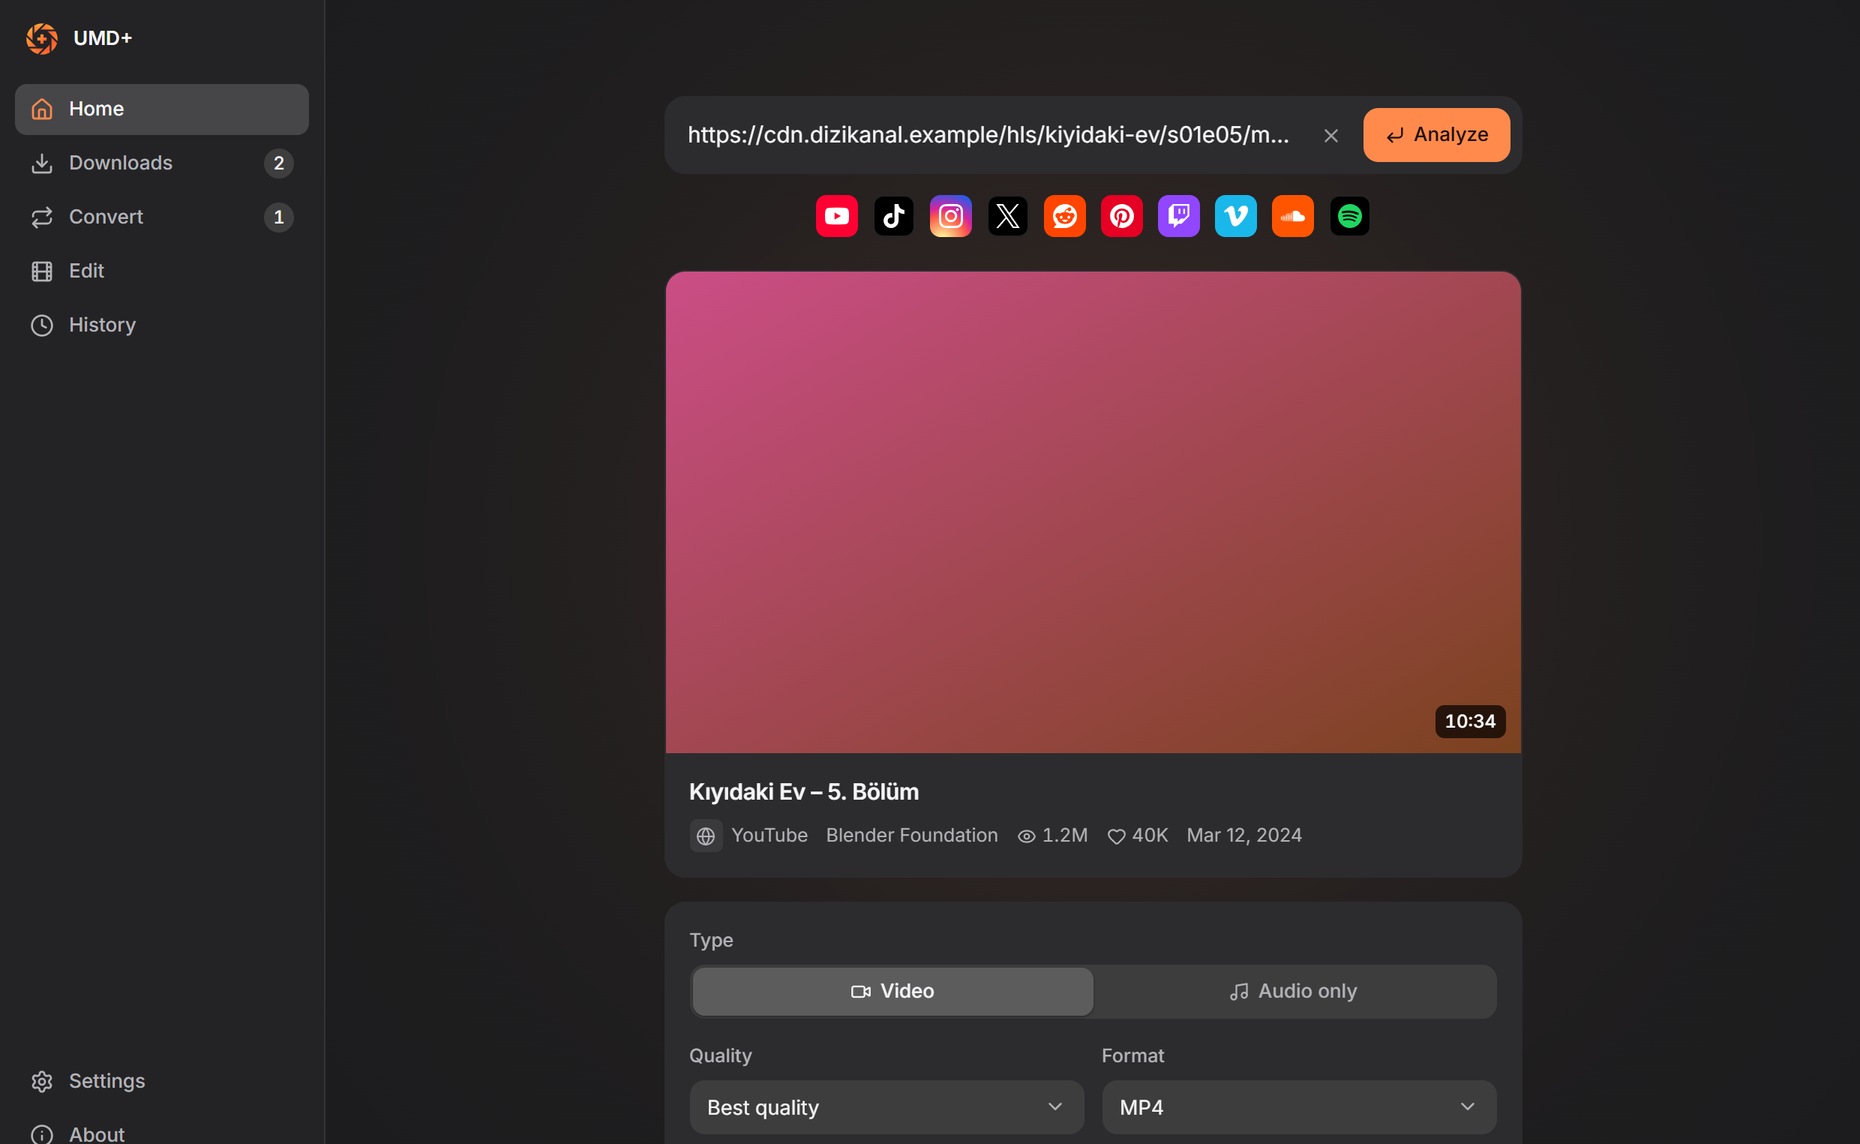
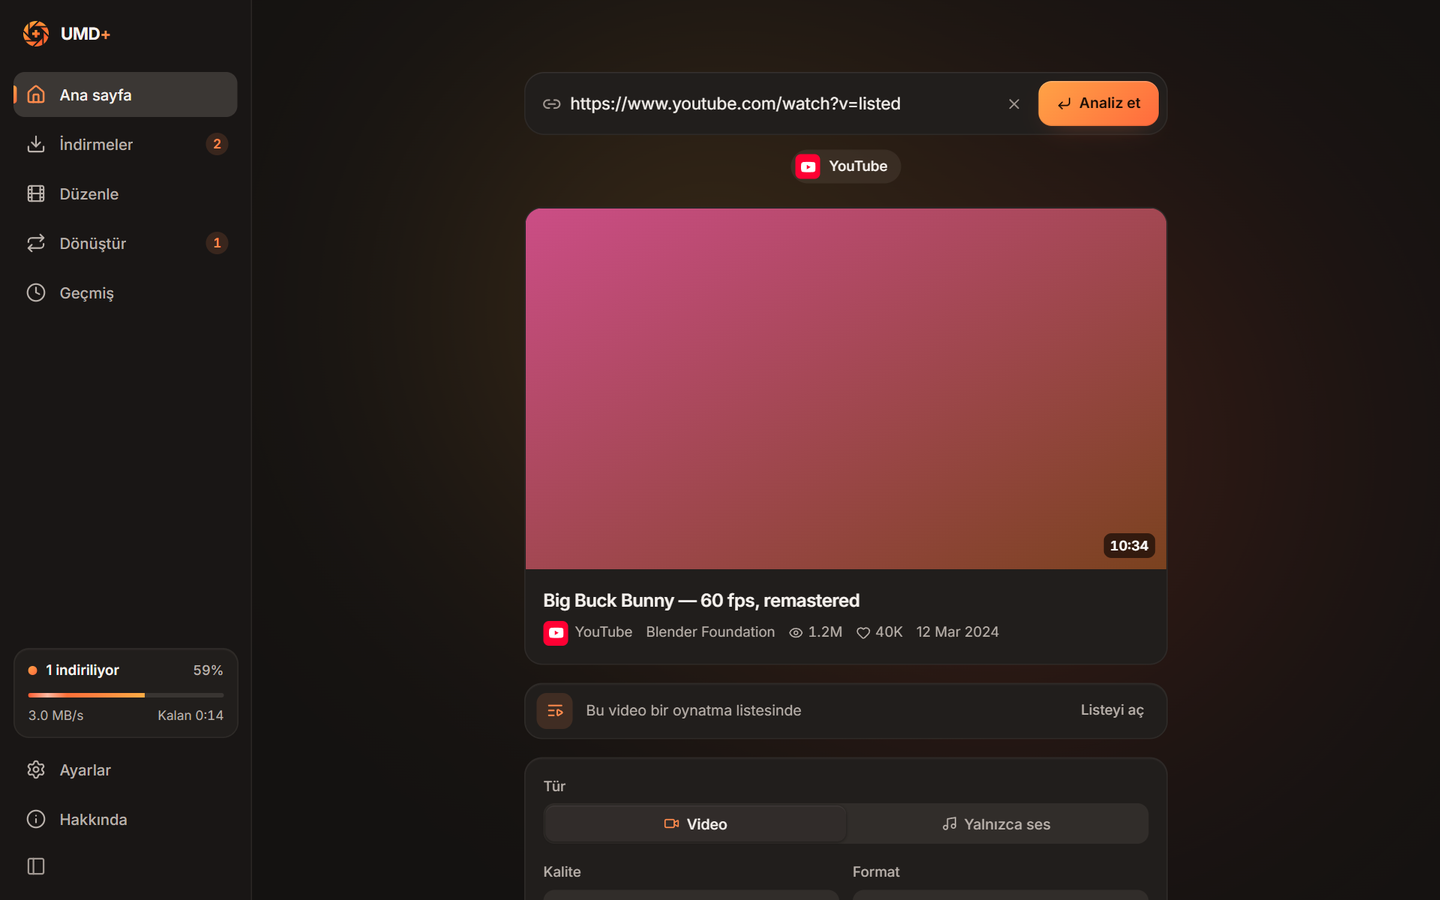
A release page with pictures and install steps for each platform
Every release run now writes the title and the page from
.github/release-template.md: download buttons, a screenshot, what is new from
docs/releases/<version>.md, a table of which file fits which device, and the
install steps for Windows, Android, Arch and the extension, folded away until
opened. The run also tags the version. The screenshots are new, from the new
interface, and the README's picture is replaced with the same one.

diff --git a/.github/release-template.md b/.github/release-template.md
@@ -1,0 +1,125 @@
+<p align="center">
+  <img src="{{raw}}/docs/logo.png" width="88" alt="">
+</p>
+
+<h1 align="center">Universal Media Downloader+ {{version}}</h1>
+
+<p align="center">
+  Bağlantıyı yapıştır, indir. Reklam yok, hesap yok, takip yok.<br>
+  <sub>Paste a link, download it. No ads, no account, no tracking. · <a href="#english">English below</a></sub>
+</p>
+
+<p align="center">
+  <a href="{{download}}/UMD-Plus_x64-setup.exe"><img alt="Windows" src="https://img.shields.io/badge/Windows-%C4%B0ndir-0078D4?style=for-the-badge&logo=windows&logoColor=white"></a>
+  <a href="{{download}}/UMD-Plus_android_arm64.apk"><img alt="Android" src="https://img.shields.io/badge/Android-%C4%B0ndir-3DDC84?style=for-the-badge&logo=android&logoColor=white"></a>
+  <a href="{{download}}/UMD-Plus_x86_64.pkg.tar.zst"><img alt="Arch Linux" src="https://img.shields.io/badge/Arch%20Linux-%C4%B0ndir-1793D1?style=for-the-badge&logo=archlinux&logoColor=white"></a>
+  <a href="{{download}}/extension-full.zip"><img alt="Tarayıcı eklentisi" src="https://img.shields.io/badge/Eklenti-%C4%B0ndir-ff7a3d?style=for-the-badge&logo=googlechrome&logoColor=white"></a>
+</p>
+
+<p align="center">
+  <img src="{{raw}}/docs/screens/home.png" width="860" alt="UMD+ ana sayfası">
+</p>
+
+## Yenilikler
+
+{{changes}}
+
+<table>
+  <tr>
+    <td width="50%"><img src="{{raw}}/docs/screens/playlist.png" alt="Bir oynatma listesinden video seçmek"></td>
+    <td width="50%"><img src="{{raw}}/docs/screens/downloads.png" alt="İndirmeler ekranı"></td>
+  </tr>
+  <tr>
+    <td align="center"><sub>Listeden istediğin videoları seç</sub></td>
+    <td align="center"><sub>İndirmeler, hızı ve kalan süresiyle</sub></td>
+  </tr>
+</table>
+
+## Hangi dosya bana göre?
+
+| Cihazın | İndireceğin dosya |
+| --- | --- |
+| **Windows 10 / 11** | [`UMD-Plus_x64-setup.exe`]({{download}}/UMD-Plus_x64-setup.exe) |
+| **Android telefon** (neredeyse hepsi) | [`UMD-Plus_android_arm64.apk`]({{download}}/UMD-Plus_android_arm64.apk) |
+| Eski, 32 bit Android telefon | [`UMD-Plus_android_armv7.apk`]({{download}}/UMD-Plus_android_armv7.apk) |
+| **Arch Linux, CachyOS, EndeavourOS, Manjaro** | [`UMD-Plus_x86_64.pkg.tar.zst`]({{download}}/UMD-Plus_x86_64.pkg.tar.zst) |
+| **Chrome, Edge, Brave, Opera, Vivaldi** eklentisi | [`extension-full.zip`]({{download}}/extension-full.zip) |
+| **Firefox** eklentisi | [`extension-firefox.zip`]({{download}}/extension-firefox.zip) |
+
+## Kurulum
+
+<details>
+<summary><b>Windows</b></summary>
+
+1. `UMD-Plus_x64-setup.exe` dosyasını indirip açın.
+2. Mavi bir "Windows bilgisayarınızı korudu" penceresi çıkarsa **Ek bilgi**'ye, sonra **Yine de çalıştır**'a basın. Kurulum dosyası imzalı olmadığı için bu uyarı çıkar.
+3. Kurulum bitince UMD+ açılır. Yönetici izni gerekmez.
+
+Daha önce kurulmuş bir sürüm varsa üzerine kurulur; ayarlarınız ve geçmişiniz kalır. Bundan sonraki güncellemeler kendiliğinden gelir.
+</details>
+
+<details>
+<summary><b>Android</b></summary>
+
+<img src="{{raw}}/docs/screens/phone.png" width="220" align="right" alt="UMD+ telefonda">
+
+1. Telefonun tarayıcısında `UMD-Plus_android_arm64.apk` dosyasını indirin.
+2. İndirilen dosyaya dokunun. Android "bilinmeyen kaynaklar" için izin isterse bu kez izin verin.
+3. **Yükle**'ye basın.
+
+Android 7.0 ya da daha yenisi gerekir. Eski **Universal Downloader** uygulaması kuruluysa önce onu kaldırın: ikisinin paket adı aynı, imzası farklı.
+
+Başka bir uygulamadaki videoyu indirmek için **Paylaş**'a basıp UMD+'yı seçin. Yeni sürüm çıktığında uygulama açılırken haber verir.
+<br clear="right">
+</details>
+
+<details>
+<summary><b>Arch Linux ve türevleri</b></summary>
+
+Dosyayı indirin, sonra bulunduğu klasörde:
+
+```bash
+sudo pacman -U ./UMD-Plus_x86_64.pkg.tar.zst
+```
+
+yt-dlp ve FFmpeg paketle birlikte kurulur. YouTube için `deno` paketini de kurun:
+
+```bash
+sudo pacman -S deno
+```
+
+Paket imzalı değildir ve kendini güncellemez. Güncellemek için yeni paketi aynı komutla kurmanız yeterli.
+</details>
+
+<details>
+<summary><b>Tarayıcı eklentisi</b></summary>
+
+Eklenti, tarayıcıda oynayan videoyu uygulamaya gönderir. Şimdilik yalnızca Windows'ta çalışır.
+
+1. `extension-full.zip` dosyasını kalıcı bir klasöre açın.
+2. Tarayıcıda eklentiler sayfasını açın (`chrome://extensions`, `edge://extensions` ya da `brave://extensions`).
+3. **Geliştirici modu**'nu açın, **Paketlenmemiş öğe yükle**'ye basın ve klasörü seçin.
+
+Eski sürümü güncelliyorsanız dosyayı aynı klasöre açıp eklentiler sayfasında **Yeniden yükle**'ye basın.
+
+Firefox için `extension-firefox.zip`, `about:debugging` sayfasından geçici eklenti olarak yüklenir ve Firefox kapanınca kalkar.
+</details>
+
+---
+
+<a id="english"></a>
+<details>
+<summary><b>English</b></summary>
+
+{{changes_en}}
+
+**Windows:** run `UMD-Plus_x64-setup.exe`. It is not code-signed, so choose **More info → Run anyway**. An installed copy updates itself from then on.
+
+**Android 7+:** install `UMD-Plus_android_arm64.apk` (`armv7` for old 32-bit phones). Uninstall the upstream Universal Downloader first; its signature differs.
+
+**Arch Linux and derivatives:** `sudo pacman -U ./UMD-Plus_x86_64.pkg.tar.zst`, plus `deno` for YouTube. Unsigned, and it does not update itself.
+
+**Browser extension (Windows only for now):** unzip `extension-full.zip`, turn on Developer mode on the extensions page and use **Load unpacked**.
+</details>
+
+<sub>Her dosyanın SHA-256 özeti `SHA256SUMS.txt` içinde. · Built from <a href="https://github.com/{{repo}}/commit/{{sha}}"><code>{{short}}</code></a> · Based on <a href="https://github.com/unsalable/downloader">unsalable/downloader</a> by Melih, MIT License.</sub>

diff --git a/docs/releases/2.5.1.md b/docs/releases/2.5.1.md
@@ -1,0 +1,18 @@
+- 🎞 **Oynatma listeleri ve kanallar.** Liste ne kadar uzun olursa olsun saniyeler içinde açılır. İstediğin videoları seçersin, hepsi liste adındaki bir klasöre iner.
+- 💬 **Altyazı.** Dilini seç; ayrı dosya olarak ya da videonun içine yazılır.
+- 🏷 **Dosyaya bilgi.** Başlık, kanal, tarih, bölümler ve kapak dosyanın içine yazılır.
+- 🐢 **Hız sınırı.** İndirmeler internetinin tamamını kaplamaz.
+- 🌙 **Zamanlama.** İndirmeler yalnızca seçtiğin saatlerde çalışır. Kuyruk bitince bilgisayar uyuyabilir ya da kapanabilir; öncesinde 60 saniyelik, iptal edilebilir bir geri sayım vardır.
+- 🖱 **Eklentide sağ tık.** Bir bağlantıya, videoya ya da sayfaya sağ tıklayıp gönder. `Alt+Shift+S` sayfayı gönderir.
+- 🔁 **Tekrar indirme uyarısı.** Daha önce indirdiğin bir şeyi açınca uygulama haber verir.
+- 🎨 **Yeni arayüz**, ve ilk kez **Android** ile **Arch Linux** sürümleri.
+
+## English
+
+- **Playlists and channels** open in seconds, however long. Pick the videos you want; they land in a folder named after the list.
+- **Subtitles** in the language you choose, beside the video or inside it.
+- **Details written into the file:** title, creator, date, chapters and a cover.
+- **A speed limit**, and **scheduled hours** for the queue. When it runs out the computer can sleep or shut down, after a 60-second countdown you can call off.
+- **Right-click in the extension** to send a link, a video or a page; `Alt+Shift+S` sends the page.
+- **A link you downloaded before** is pointed out.
+- **A new interface**, and the first **Android** and **Arch Linux** builds.

diff --git a/docs/RELEASING.md b/docs/RELEASING.md
@@ -35,6 +35,26 @@ install it, and find itself out of date again on the next start.
 For the same reason, Windows and Android are never released one without the
 other. A failed build stops the whole run, and the tag stays where it was.
 
+## The release page
+
+Each run writes the release's title and page. The page is
+`.github/release-template.md`, filled in by `scripts/release-notes.mjs`: the
+version, download buttons, screenshots from `docs/screens/`, install steps
+for each platform, and what is new.
+
+What is new comes from `docs/releases/<version>.md`: a short Turkish list, then
+a line `## English` and the same in English. Write it before running the
+workflow. Text in the run's **notes** box replaces the Turkish part. With
+neither, the page points at the commits.
+
+To see the page before a run:
+
+```bash
+node scripts/release-notes.mjs > notes.md
+```
+
+The run also tags the commit `v<version>`, unless that tag already exists.
+
 ## Secrets
 
 Only the Android build needs any. GitHub provides the token that publishes the
